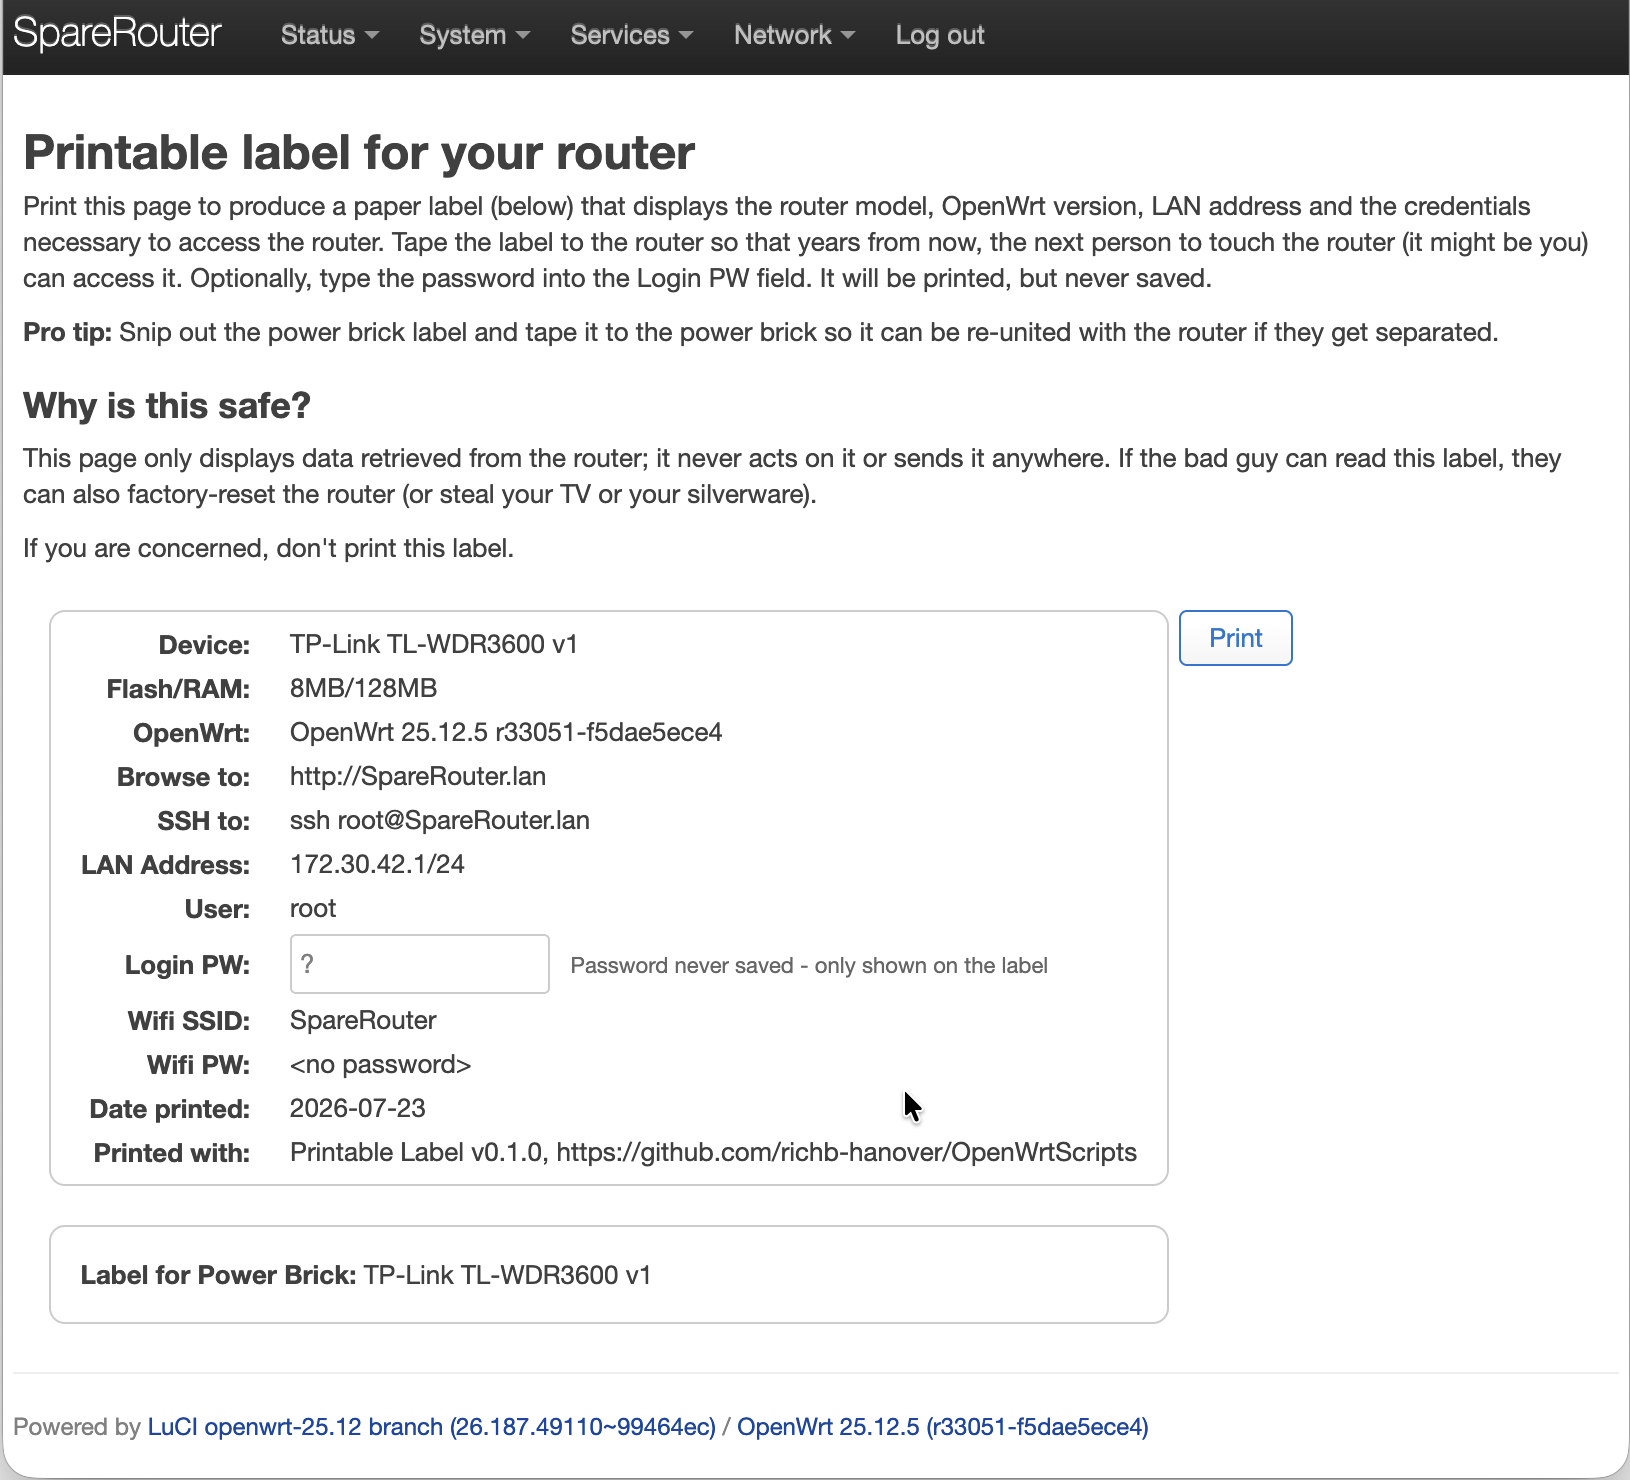
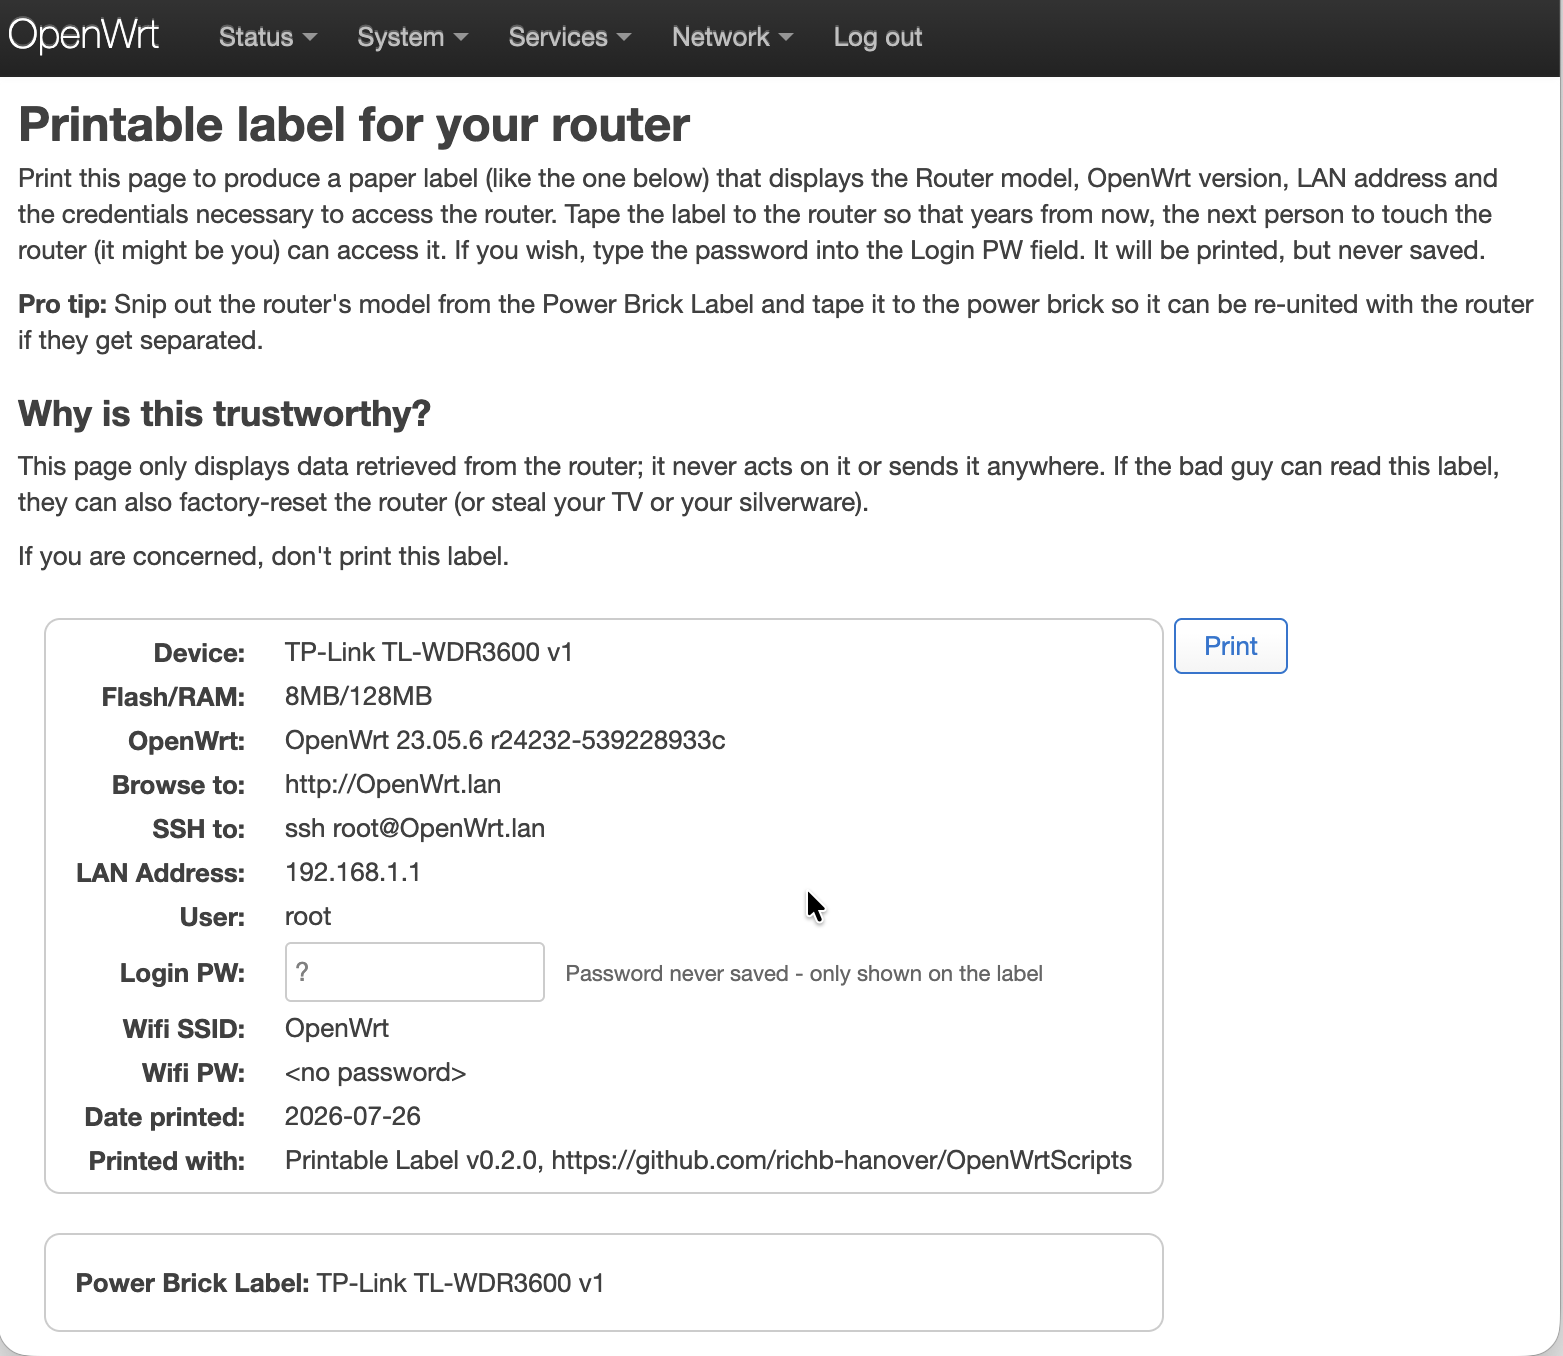
Final editorial tweaks before release; Bump version to 0.2.1-1

diff --git a/printable-label/htdocs/luci-static/resources/view/routerlabel.js b/printable-label/htdocs/luci-static/resources/view/routerlabel.js
@@ -11,7 +11,7 @@
 // `build-apk.sh --sync-version`) -- can't be derived at runtime since this
 // file is also used directly (as loose files, no SDK build) during
 // day-to-day development.
-var APP_VERSION = '0.2.0';
+var APP_VERSION = '0.2.1';
 
 var callSystemBoard = rpc.declare({
 	object: 'system',

diff --git a/printable-label/BUILDING.md b/printable-label/BUILDING.md
@@ -1,24 +1,57 @@
 # Building the package (.apk / .ipk)
 
-OpenWrt switched its default package manager from `opkg` to `apk-tools`
-starting with the 24.10 release line. 23.05 and earlier (still most routers
-in the wild) use `opkg`/`.ipk`. Two scripts build the right format for each,
-both in about a second, with no OpenWrt SDK, no feeds, and no toolchain.
+The script `build-packages.sh` builds both the .apk and .ipk.
+Use this script after making changes to any of the files.
 
-## build-apk.sh (apk-tools, OpenWrt 24.10+)
+The script spins up a small
+Docker container to use the built-in build tools
+to produce the package files.
+It retrieves  `PKG_VERSION` and `PKG_RELEASE` from
+the _Makefile_ for versioning.
+
+The built packages are saved in:
+
+- apk: $HOME/openwrt-sdk-build/bin/packages/mips_24kc/base/${PKGNAME}-${PKG_VERSION}-r${PKG_RELEASE}.apk
+
+- ipk: $HOME/openwrt-sdk-build/bin/packages/mips_24kc/base/${PKGNAME}_${PKG_VERSION}-${PKG_RELEASE}_all.ipk
+
+## Deploying for testing
+
+The scripts `deploy-ipk.sh` and `deploy-apk.sh`
+take a parameter of **root@\<router address>**
+and ssh into the device, copy the package to the router,
+and then install it.
+You'll need to reconnect to the LuCI GUI to seen the update.
+
+## Pushing to Github
+
+There are three steps to publishing the scripts and packages:
+
+1. Commit all the changes, and push to Github normally.
+2. Use `build-packages.sh` then...
+3. Run `release-to-github.sh` to create an updated
+   release on the home page of the Github repo
+
+## Background - old information from development
+
+The remainder of this page may be outdated because
+it was created during the development process.
+I'm retaining it here so nothing important gets lost.
+
+### build-apk.sh (apk-tools, OpenWrt 24.10+)
 
 Builds a real, installable `luci-app-printable-label-<version>.apk`. Verified
 against a real SDK-built `.apk`: identical file tree, install/upgrade/remove
 scripts, and metadata (see "How it works" below) -- and installed with `apk
 add` on a real router.
 
-### Requirements
+#### Requirements
 
 Docker Desktop running. The script uses a tiny `alpine:3.24` image (~7MB,
 pulled automatically on first use) to invoke the real `apk mkpkg`
 command -- there's no persistent container or volume to set up.
 
-### Building
+#### Building
 
 ```bash
 ./build-apk.sh
@@ -37,7 +70,7 @@ meaningful anymore since the package is `noarch`). Old-version `.apk` files
 aren't auto-removed -- delete stale ones so you don't accidentally install
 the wrong version.
 
-### Installing on a router
+#### Installing on a router
 
 **Quick path:** `./deploy-apk.sh [user@]router-address` — scp's the
 already-built `.apk` and installs it with `apk`, clearing the menu cache
@@ -73,17 +106,17 @@ To upgrade to a newer build later: `apk add --allow-untrusted
 /tmp/luci-app-printable-label-<new-version>.apk` again -- `apk` handles the
 upgrade in place. To remove entirely: `apk del luci-app-printable-label`.
 
-## build-ipk.sh (opkg, OpenWrt 23.05 and earlier)
+### build-ipk.sh (opkg, OpenWrt 23.05 and earlier)
 
 Builds `luci-app-printable-label_<version>-<release>_all.ipk`. Same source
 files as `build-apk.sh`, just packaged in the `.ipk` format opkg expects.
 
-### Requirements (build-ipk.sh)
+#### Requirements (build-ipk.sh)
 
 Docker Desktop running, same as `build-apk.sh` -- `alpine:3.24` again, for a
 known-good `tar`.
 
-### Building the .ipk
+#### Building the .ipk
 
 ```bash
 ./build-ipk.sh
@@ -95,7 +128,7 @@ Also syncs `APP_VERSION` in `routerlabel.js` to the Makefile's
 The `.ipk` lands in the same directory as the `.apk`,
 `~/openwrt-sdk-build/bin/packages/mips_24kc/base/luci-app-printable-label_<version>-<release>_all.ipk`.
 
-### Installing the .ipk on a router
+#### Installing the .ipk on a router
 
 **Quick path:** `./deploy-ipk.sh [user@]router-address` — scp's the
 already-built `.ipk` and installs it with `opkg`, clearing the menu cache
@@ -119,9 +152,9 @@ If the router already has the loose-file version deployed, remove those
 first -- same four files, same commands as in the `build-apk.sh` section
 above.
 
-## How it works
+### How it works
 
-### .apk
+#### .apk
 
 OpenWrt's current package manager is `apk-tools` v3, and its `.apk` files
 are a custom binary format ("ADB", Alpine Dependency Binary) -- not a
@@ -151,7 +184,7 @@ Since there's no compiled code and no cross-compilation, none of the SDK's
 toolchain, feeds, or `.config` machinery is actually needed -- it exists to
 support packages that do compile something.
 
-### .ipk
+#### .ipk
 
 An `.ipk` is much simpler than an `.apk`: it's a gzip-compressed tar of
 three members, in order -- `debian-binary` (literally the text `2.0`),
@@ -181,3 +214,51 @@ so there's one script instead of two, otherwise identical
 has enough format quirks (AppleDouble resource-fork entries, differing
 owner/group flags) to make it worth avoiding entirely for a binary archive
 format, even one this simple.
+
+### Architecture note: targets ucode-era LuCI, not classic Lua LuCI
+
+Current OpenWrt (confirmed on a 2026-dated snapshot build, OpenWrt 25.12.5)
+has fully migrated LuCI's controller layer from Lua to ucode, and dropped
+`/usr/lib/lua/luci` entirely. Third-party apps in this LuCI version don't
+ship their own controller code at all — menu entries are plain JSON files
+in `/usr/share/luci/menu.d/`, and JS views fetch data directly via LuCI's
+existing client-side `fs`, `uci`, and `rpc` JS modules (the same modules
+`luci-app-sqm`'s `sqm.js` uses), gated by an ACL file in
+`/usr/share/rpcd/acl.d/`. There is no controller in this app for that
+reason — all the logic that used to live in a Lua controller now lives in
+`htdocs/luci-static/resources/routerlabel.js`, loaded by the view via
+`'require routerlabel'`.
+
+An earlier version of this app used a Lua controller + `luasrc/` module;
+that approach doesn't work on current OpenWrt and was removed.
+
+### Testing on a router
+
+**Recommended:** `./build-apk.sh && ./deploy-apk.sh [user@]router-address`
+from this directory — builds the `.apk` (see [BUILDING.md](./BUILDING.md))
+and installs it on the router with `apk`, clearing the menu cache and
+restarting `rpcd` for you.
+
+### Mock data for local development
+
+Once the page is deployed and loading, append `?mock=1` to its URL (e.g.
+`.../admin/services/routerlabel?mock=1`) to see fixed sample values instead
+of real ubus/uci/`/proc/mtd` data. Useful for iterating on layout/styling
+without needing to reconfigure wifi or uci each time. No redeploy needed
+to toggle it -- just edit the URL. The mock values live in `getMockData()`
+in `htdocs/luci-static/resources/view/routerlabel.js`.
+
+This can't eliminate the need for a router entirely: the page still runs
+inside LuCI's own JS framework (`E()`, `_()`, `view.extend`, etc.), which
+only exists once a real router has loaded it — there's no standalone/local
+way to preview this page outside LuCI.
+
+### Running the unit tests locally
+
+`htdocs/luci-static/resources/routerlabel.js` has no LuCI/browser
+dependencies and can be tested with plain `node` — no router needed:
+
+```bash
+cd ../tests
+node test_routerlabel_util.js
+```

diff --git a/printable-label/README.md b/printable-label/README.md
@@ -6,125 +6,17 @@ that can be taped to the router for ease of access
 when you come back to the router years from now.
 
 To display the label, choose **Services -> Printable Label**.
-The border (below) contains the information that
-is printed for the label.
+The outlined area (below) contains the information that
+is printed on the label.
 
 ![router label](./router-label.png)
 
 -------
 
-Displays the same router-identification "label" that `print-router-label.sh`
-(in the repo root) prints to the console, but in the LuCI web GUI under
-**Services → Printable Label**. The root login password isn't derivable from
-`uci`, so it's a plain text field on the page — nothing typed there is
-saved to disk or sent to the router; it only updates the page you're looking at.
+The package displays the same information printed
+by  `print-router-label.sh` (in the repo root).
 
-Two ways to run this: a real installable `.apk`, built and deployed with
-`./build-apk.sh && ./deploy-apk.sh` (fast — no OpenWrt SDK needed, see
-[BUILDING.md](./BUILDING.md)), or a manual loose-file deploy for iterating
-on a single file (below). See
-`docs/superpowers/specs/2026-07-18-luci-app-router-label-design.md` for
-the original design rationale.
-
-## Architecture note: targets ucode-era LuCI, not classic Lua LuCI
-
-Current OpenWrt (confirmed on a 2026-dated snapshot build, OpenWrt 25.12.5)
-has fully migrated LuCI's controller layer from Lua to ucode, and dropped
-`/usr/lib/lua/luci` entirely. Third-party apps in this LuCI version don't
-ship their own controller code at all — menu entries are plain JSON files
-in `/usr/share/luci/menu.d/`, and JS views fetch data directly via LuCI's
-existing client-side `fs`, `uci`, and `rpc` JS modules (the same modules
-`luci-app-sqm`'s `sqm.js` uses), gated by an ACL file in
-`/usr/share/rpcd/acl.d/`. There is no controller in this app for that
-reason — all the logic that used to live in a Lua controller now lives in
-`htdocs/luci-static/resources/routerlabel.js`, loaded by the view via
-`'require routerlabel'`.
-
-An earlier version of this app used a Lua controller + `luasrc/` module;
-that approach doesn't work on current OpenWrt and was removed.
-
-## Testing on a router
-
-**Recommended:** `./build-apk.sh && ./deploy-apk.sh [user@]router-address`
-from this directory — builds the `.apk` (see [BUILDING.md](./BUILDING.md))
-and installs it on the router with `apk`, clearing the menu cache and
-restarting `rpcd` for you.
-
-## Manual loose-file deploy (fallback / single-file iteration)
-
-Useful for iterating on a single file, or if something's gone wrong with
-the packaged path above — no package involved, just `scp` the file straight
-to where it runs. Copy the files directly onto a router running current
-OpenWrt. The `scp`
-source paths below are relative to this directory (`printable-label/`),
-so `cd` here first.
-
-**Note the `-O` flag on each `scp`:** OpenWrt's default SSH server (Dropbear)
-doesn't ship an `sftp-server` binary, and modern `scp` clients (OpenSSH 9.0+,
-which is what current macOS ships) default to the SFTP protocol. Without
-`-O` you'll hit `ash: /usr/libexec/sftp-server: not found` / `scp: Connection
-closed`. `-O` forces the older SCP protocol, which Dropbear does support.
-
-```bash
-cd printable-label   # skip if you're already in this directory
-
-ssh root@<router> mkdir -p /usr/share/luci/menu.d /usr/share/rpcd/acl.d \
-  /www/luci-static/resources/view
-
-scp -O htdocs/luci-static/resources/routerlabel.js \
-  root@<router>:/www/luci-static/resources/routerlabel.js
-scp -O htdocs/luci-static/resources/view/routerlabel.js \
-  root@<router>:/www/luci-static/resources/view/routerlabel.js
-scp -O root/usr/share/luci/menu.d/luci-app-printable-label.json \
-  root@<router>:/usr/share/luci/menu.d/luci-app-printable-label.json
-scp -O root/usr/share/rpcd/acl.d/luci-app-printable-label.json \
-  root@<router>:/usr/share/rpcd/acl.d/luci-app-printable-label.json
-
-# Menu cache and rpcd (for the ACL file) both need a kick to pick up new files
-ssh root@<router> rm -f /tmp/luci-indexcache*
-ssh root@<router> /etc/init.d/rpcd restart
-```
-
-Then reload LuCI in your browser and look under **Services → Printable Label**.
-If the menu entry doesn't show up, double check the menu cache was cleared
-and `rpcd` actually restarted (`logread | grep rpcd` can help). Root/admin
-sessions typically bypass ACL checks entirely, so the ACL file mainly
-matters for non-root delegated admin accounts — but ship it anyway, since
-every other app here does, and it's what makes this a properly-packaged
-app rather than something that only works for `root`.
-
-## Mock data for local development
-
-Once the page is deployed and loading, append `?mock=1` to its URL (e.g.
-`.../admin/services/routerlabel?mock=1`) to see fixed sample values instead
-of real ubus/uci/`/proc/mtd` data. Useful for iterating on layout/styling
-without needing to reconfigure wifi or uci each time. No redeploy needed
-to toggle it -- just edit the URL. The mock values live in `getMockData()`
-in `htdocs/luci-static/resources/view/routerlabel.js`.
-
-This can't eliminate the need for a router entirely: the page still runs
-inside LuCI's own JS framework (`E()`, `_()`, `view.extend`, etc.), which
-only exists once a real router has loaded it — there's no standalone/local
-way to preview this page outside LuCI.
-
-## Known divergence from print-router-label.sh
-
-When no wifi-iface is enabled, this page shows Wifi SSID/PW as `unknown`/
-`unknown`, matching the design spec's documented intent. The shell script's
-own fallback for this case (`print-router-label.sh`'s `else` branch) is
-actually unreachable — its `mktemp` creates `$TMPFILE` before the loop
-runs, so `[ -f "$TMPFILE" ]` is always true, and the script really prints
-an empty SSID and `<no password>` in this case. This page's behavior is
-the documented intent working as designed, not a bug — just a heads up
-if you're comparing outputs side by side on a router with no enabled
-wifi-iface.
-
-## Running the unit tests locally
-
-`htdocs/luci-static/resources/routerlabel.js` has no LuCI/browser
-dependencies and can be tested with plain `node` — no router needed:
-
-```bash
-cd ../tests
-node test_routerlabel_util.js
-```
+The root login password can't be derived from
+`uci`, so it's a plain text field on the page —
+nothing typed there is saved to disk or sent to the router;
+it only updates the page you're looking at.

diff --git a/README.md b/README.md
@@ -10,9 +10,7 @@ These scripts work for [OpenWrt](https://openwrt.org) and include:
   that can be taped to the router,
   with the model number and credentials to make
   it easy to access in the future.
-  This supercedes the `print-router-label.sh` script (below).
-  Because it's currently an .apk (not a .opkg),
-  requires OpenWrt 24.10 or newer.
+  This prints a more attractive label than the `print-router-label.sh` script (below).
 
 * [getstats.sh](#getstatssh) - a script to collect troubleshooting
   information that helps to diagnose problems in the OpenWrt distribution.
@@ -129,7 +127,8 @@ label that contains the LAN address and important credentials.
 Tape this label to the side of the router so the next person
 to encounter the router (which may be you) can access it.
 This script works on any router.
-See the Printable Label - a package that prints a nicer label.
+NB: the [Printable Label](./printable-label/README.md) package (above)
+prints a nicer label.
 
 This label is reasonably secure - if the bad guy
 can read the label, they can also factory-reset the router
